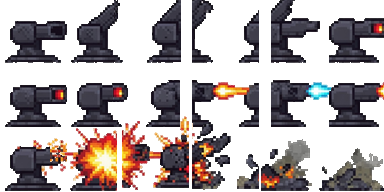
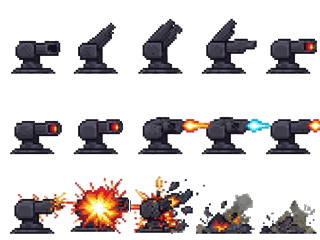
Fix Floor Turret sprite: 5-column grid, feathered edges, no death halo (v23)
The turret read as "square / cut-out" and left a rectangular outer edge on
death. Root cause: the source sheet is a 5x3 grid (~250px cells), not 6x3 —
the 6-column assumption sliced one turret into a broken half-frame, and the
hard binary mask gave razor sticker edges plus a rectangular residue around
the bright explosion frames.

- Re-extract as 5x3 = 15 frames at 64x80 (taller so the raised barrel and
  explosions are no longer clipped), base-anchored on the detected pedestal
  so the mount never shifts between poses
- Mask the checker bg, strip small seam-bleed slivers, then downscale with
  LANCZOS so alpha edges get a 1px anti-aliased feather instead of a hard
  cut-out edge (kills the sticker look and the square explosion halo)
- turretFrame: deploy 0-4, active 5-6, muzzle-flash fire 7-9, destruction
  10-14; drawFrame now 64x80 / 5 cols, grounded via r.y+6
- Add tools/extract_turret.py; README documents the corrected layout
- Bump BUILD + SW cache to v23

Verified in-game: deploy/fire/death render clean with soft edges and no
outer rectangle, no console errors.

Claude-Session: https://claude.ai/code/session_01WciL2daYyJW2Bhgb5yGRdJ

diff --git a/rungun/game.js b/rungun/game.js
@@ -10,7 +10,7 @@ const ctx = canvas.getContext('2d');
 ctx.imageSmoothingEnabled = false;
 
 const W = 640, H = 360;
-const BUILD = 'v22'; // visas på titelskärmen — bumpa ihop med sw.js-cachen
+const BUILD = 'v23'; // visas på titelskärmen — bumpa ihop med sw.js-cachen
 const TILE = 32;
 
 // ---- Sprite frames ---------------------------------------------------------
@@ -883,13 +883,13 @@ function sentryFrame(r) {
   return 8 + Math.floor(r.animT * 4) % 5; // idle/scan (cyan öga)
 }
 const TURRET_READY = () => turretSheet.complete && turretSheet.naturalWidth;
-// Floor Turret-frames i robot-turret.png (6 kol): deploy 0-5, aktiv 6-8,
-// eld 9-11, död 12-17
+// Floor Turret-frames i robot-turret.png (5 kol × 3 rad = 15 frames):
+// deploy 0-4, aktiv/idle 5-6, eld m. mynningsflamma 7-9, destruktion 10-14
 function turretFrame(r) {
-  if (r.hp <= 0) return 12 + Math.min(5, Math.floor(r.dieT * 7)); // dödssekvens ~7fps
-  if (r.flashT > 0) return 9 + Math.floor(r.animT * 18) % 3;      // eld m. mynningsflamma
-  if (r.deploy > 0.92) return 6 + Math.floor(r.animT * 3) % 2;    // aktiv/aim
-  return Math.min(5, Math.floor(r.deploy * 6));                   // deploy/retract
+  if (r.hp <= 0) return 10 + Math.min(4, Math.floor(r.dieT * 7)); // dödssekvens ~7fps
+  if (r.flashT > 0) return 7 + Math.floor(r.animT * 18) % 3;      // eld m. mynningsflamma
+  if (r.deploy > 0.92) return 5 + Math.floor(r.animT * 3) % 2;    // aktiv/aim
+  return Math.min(4, Math.floor(r.deploy * 5));                   // deploy/retract
 }
 function drawRobot(r) {
   if (r.kind === 'sentry' && SENTRY_READY()) {
@@ -906,8 +906,8 @@ function drawRobot(r) {
     if (r.hp <= 0 && r.dieT > 0.9) return;
     ctx.save();
     if (r.hitT > 0) ctx.globalAlpha = 0.6;
-    // turret-sheeten är HÖGERVÄND — flippa vid facing < 0
-    drawFrame(turretSheet, turretFrame(r), r.x, r.y + 2, r.facing < 0, 64, 64, 6);
+    // turret-sheeten är HÖGERVÄND — flippa vid facing < 0 (64×80, 5 kol)
+    drawFrame(turretSheet, turretFrame(r), r.x, r.y + 6, r.facing < 0, 64, 80, 5);
     ctx.restore();
     ctx.globalAlpha = 1;
     return;

diff --git a/rungun/sw.js b/rungun/sw.js
@@ -1,6 +1,6 @@
 'use strict';
 // Enkel cache-first service worker så spelet funkar offline som webapp.
-const CACHE = 'commando-strike-v22';
+const CACHE = 'commando-strike-v23';
 const CORE = [
   './',
   './index.html',

diff --git a/rungun/tools/extract_turret.py b/rungun/tools/extract_turret.py
@@ -1,0 +1,105 @@
+#!/usr/bin/env python3
+"""Re-extract the Floor Turret sheet without clipping the raised barrel /
+explosions and with feathered (anti-aliased) alpha so the frames don't look
+like hard cut-out stickers.
+
+Source: turret_src.png, 1248x832 — actually a 5x3 grid (cells ~250x277), NOT
+6x3: each row holds 5 distinct turret poses (deploy / active+fire / destruction).
+The earlier 6-column assumption sliced one turret into a broken frame, which
+read as the "square / cut-out" feel.
+Strategy per cell:
+  * mask out the bright checker background (keep dark-grey turret + fx colours)
+  * clean stray specks
+  * detect the turret BASE bottom (lowest wide band of the main lower blob)
+    and anchor it to a fixed baseline so the pedestal never shifts
+  * scale the whole cell uniformly by width (64/208) and composite into a
+    64x80 RGBA frame, bottom-anchored on the base, with a smooth downscale so
+    edges get a 1px anti-aliased feather instead of a razor edge
+Output: robot-turret.png, 384x240 (6x3, 64x80 frames)
+"""
+import numpy as np
+from PIL import Image
+from scipy import ndimage
+
+SRC = 'turret_src.png'
+OUT = '/home/user/one-stroke-hamiltonian-puzzle/rungun/assets/robot-turret.png'
+COLS, ROWS = 5, 3
+FW, FH = 64, 80          # target frame (taller so raised barrel/explosion fit)
+BASELINE = 74            # y in frame where the base bottom sits
+
+im = Image.open(SRC).convert('RGB')
+a = np.array(im).astype(int)
+H, W = a.shape[:2]
+CW, CH = W // COLS, H // ROWS
+mx = a.max(2); mn = a.min(2); sat = mx - mn
+# background = low-saturation AND bright (the light checker). Everything else
+# (dark metal body + coloured fx) is sprite.
+mask = ~((sat < 24) & (mx > 150))
+
+sheet = Image.new('RGBA', (FW * COLS, FH * ROWS), (0, 0, 0, 0))
+
+for r in range(ROWS):
+    for c in range(COLS):
+        m = mask[r*CH:(r+1)*CH, c*CW:(c+1)*CW].copy()
+        rgb = a[r*CH:(r+1)*CH, c*CW:(c+1)*CW].astype('uint8')
+        # drop tiny specks (isolated checker seams that slipped the threshold)
+        lab, n = ndimage.label(m)
+        if n:
+            sizes = ndimage.sum(np.ones_like(lab), lab, range(1, n+1))
+            keep = {i+1 for i, s in enumerate(sizes) if s >= 40}
+            m = np.isin(lab, list(keep))
+        ys, xs = np.where(m)
+        if len(xs) == 0:
+            continue
+        # --- locate the pedestal ANYWHERE in the bottom band (the source
+        # sprites drift horizontally, so don't assume it's centred). The
+        # pedestal is the biggest solid mass sitting near the cell bottom.
+        BOT = 64
+        botband = m[CH-BOT:CH, :]
+        blab, bn = ndimage.label(botband)
+        if bn == 0:
+            continue
+        bsizes = ndimage.sum(np.ones_like(blab), blab, range(1, bn+1))
+        ped = int(np.argmax(bsizes)) + 1
+        pys, pxs = np.where(blab == ped)
+        cx = int(round(pxs.mean()))              # pedestal x-centre -> anchor
+        base_bot = (CH - BOT) + pys.max()        # pedestal bottom -> baseline
+        # --- keep the whole frame's content (like the original clean pass);
+        # only strip SMALL slivers glued to the L/R seam, i.e. the neighbouring
+        # frame bleeding a few px across the boundary. Large blobs are always
+        # kept so a barrel/base split across a gap is never dropped.
+        lab, n = ndimage.label(m)
+        if n > 1:
+            keep = np.zeros_like(m)
+            for i in range(1, n+1):
+                comp = lab == i
+                cyy, cxx = np.where(comp)
+                touches_seam = cxx.min() <= 1 or cxx.max() >= CW-2
+                if comp.sum() >= 900 or not touches_seam:
+                    keep |= comp        # substantial part -> keep
+            m = keep
+            ys, xs = np.where(m)
+            if len(xs) == 0:
+                continue
+        # build a full-cell RGBA (feathered alpha comes from smooth downscale)
+        cell = np.zeros((CH, CW, 4), dtype='uint8')
+        cell[..., :3] = rgb
+        cell[..., 3] = (m * 255).astype('uint8')
+        cimg = Image.fromarray(cell, 'RGBA')
+
+        scale = FW / CW               # uniform, width-driven
+        nw, nh = FW, max(1, round(CH * scale))
+        cimg = cimg.resize((nw, nh), Image.LANCZOS)   # smooth -> AA edges
+
+        # place: base bottom -> BASELINE, anchor x -> centre of frame
+        sb = base_bot * scale         # scaled base-bottom y
+        scx = cx * scale
+        ox = round(FW/2 - scx)
+        oy = round(BASELINE - sb)
+        sheet.alpha_composite(cimg, (c*FW + ox, r*FH + oy))
+
+# hard-clamp faint feather ghosts (alpha<12) to fully clear so no grey haze
+arr = np.array(sheet)
+arr[..., 3] = np.where(arr[..., 3] < 12, 0, arr[..., 3])
+Image.fromarray(arr).save(OUT)
+print('wrote', OUT, sheet.size)

diff --git a/rungun/README.md b/rungun/README.md
@@ -123,6 +123,8 @@ delar ihopvuxna blobbar och paketerar om allt till en jämn 8×3-sheet
   sikte 6–8, eld 9–10, gång 12–14, död 15–17; vänstervänd — eldframesen
   var högervända i källbilden och är flippade vid extraktion)
 - `assets/robot-sentry.png` — Sektor 2-patrullrobot (8×4-frames)
-- `assets/robot-turret.png` — Sektor 2-golvturret (Floor Turret, 6×3, 64×64-frames:
-  deploy 0–5, aktiv/aim 6–8, eld m. mynningsflamma 9–11, destruktion 12–17)
+- `assets/robot-turret.png` — Sektor 2-golvturret (Floor Turret, 5×3, 64×80-frames:
+  deploy 0–4, aktiv/aim 5–6, eld m. mynningsflamma 7–9, destruktion 10–14).
+  Källbilden har 5 poser/rad (inte 6) och mjuk-maskas + antialiasas vid extraktion
+  så framesen inte ser inklippta ut eller lämnar fyrkantiga kanter vid explosionen.
 - `tools/extract_sprites.py` — sprite-extraktion från originalbilderna